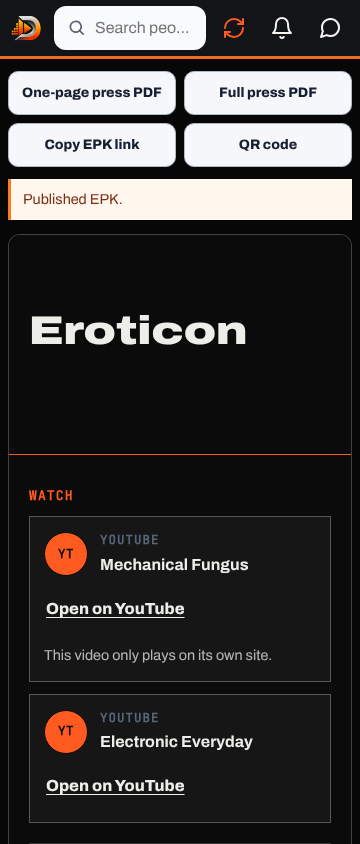
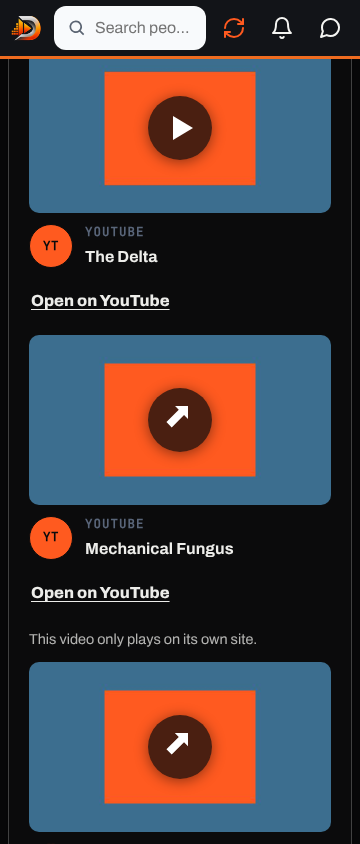
EPK Watch shows each video's picture and leaves out removed ones
Owner (screenshot of Watch cards that only said "Load YouTube player"):
"Links from YouTube need the videos if video unavailable then dont put it
in the epk".

- YouTube and Vimeo links show the video's own picture in a 16:9 frame with
  a play button; a tap plays it in place (autoplay only for the player that
  tap starts, nothing loads before it). One that won't play on other sites
  keeps its picture and opens on its own site.
- A removed or private video never shows: YouTube's 120x90 stand-in picture
  or Vimeo's oEmbed 404 removes the card, so do player errors 100/2 after a
  tap; an empty Watch section goes too. The builder's video lines use the
  same check.
- epk-video-check.cjs covers the venue view (removed YouTube and Vimeo
  videos, centre taps, 320-430px); epk-looks and epk-production updated.

Claude-Session: https://claude.ai/code/session_01B3uuzLULLY8hw3RkkU8VCN

diff --git a/assets/epk-video-check.js b/assets/epk-video-check.js
@@ -15,17 +15,59 @@
   const listeners = new Set();
   let box = null;
 
-  function embedSource(url, { api: jsApi = false } = {}) {
+  function ids(url) {
     try {
       const u = new URL(url), host = u.hostname.replace(/^www\.|^m\./, "").toLowerCase();
-      let id = "";
-      if (host === "youtube.com" || host === "music.youtube.com") id = u.searchParams.get("v") || (u.pathname.match(/^\/(?:shorts|embed|live)\/([\w-]{6,20})/) || [])[1] || "";
-      else if (host === "youtu.be") id = u.pathname.split("/").filter(Boolean)[0] || "";
-      if (/^[\w-]{6,20}$/.test(id)) return `https://www.youtube-nocookie.com/embed/${id}${jsApi ? `?enablejsapi=1&playsinline=1&origin=${encodeURIComponent(location.origin)}` : ""}`;
-      if (host === "vimeo.com") { const vid = u.pathname.split("/").filter(Boolean).find(part => /^\d+$/.test(part)); if (vid) return `https://player.vimeo.com/video/${vid}`; }
+      let youtube = "";
+      if (host === "youtube.com" || host === "music.youtube.com") youtube = u.searchParams.get("v") || (u.pathname.match(/^\/(?:shorts|embed|live)\/([\w-]{6,20})/) || [])[1] || "";
+      else if (host === "youtu.be") youtube = u.pathname.split("/").filter(Boolean)[0] || "";
+      if (/^[\w-]{6,20}$/.test(youtube)) return { youtube };
+      if (host === "vimeo.com") { const vimeo = u.pathname.split("/").filter(Boolean).find(part => /^\d+$/.test(part)); if (vimeo) return { vimeo }; }
     } catch { /* not a URL */ }
+    return {};
+  }
+  // play: the visitor tapped the video's picture, so the player starts at once (autoplay only after that tap).
+  function embedSource(url, { api: jsApi = false, play = false } = {}) {
+    const { youtube, vimeo } = ids(url);
+    if (youtube) {
+      const query = [jsApi && `enablejsapi=1&playsinline=1&origin=${encodeURIComponent(location.origin)}`, play && "autoplay=1"].filter(Boolean).join("&");
+      return `https://www.youtube-nocookie.com/embed/${youtube}${query ? `?${query}` : ""}`;
+    }
+    if (vimeo) return `https://player.vimeo.com/video/${vimeo}${play ? "?autoplay=1" : ""}`;
     return "";
   }
+
+  // The video's own picture (owner 2026-11-23, a screenshot of Watch cards that only said "Load YouTube player": "Links
+  // from YouTube need the videos if video unavailable then dont put it in the epk"). YouTube keeps every video's picture
+  // at i.ytimg.com and answers a removed, private or mistyped video with a 120x90 grey stand-in; Vimeo's oEmbed gives the
+  // picture, or 404 for a removed or private video. → { state: "ok" | "gone" | "link" | "unknown", src }
+  const posters = new Map();
+  function poster(url) {
+    if (posters.has(url)) return posters.get(url);
+    const { youtube, vimeo } = ids(url);
+    let job = Promise.resolve({ state: "skip", src: "" });
+    if (youtube) job = new Promise(resolve => {
+      const image = new Image(), src = `https://i.ytimg.com/vi/${youtube}/hqdefault.jpg`;
+      const done = value => { clearTimeout(timer); image.onload = image.onerror = null; resolve(value); };
+      const timer = setTimeout(() => done({ state: "unknown", src: "" }), 8000);
+      image.onload = () => done(image.naturalWidth > 120 ? { state: "ok", src } : { state: "gone", src: "" });
+      image.onerror = () => done({ state: "unknown", src: "" });
+      image.referrerPolicy = "no-referrer";
+      image.src = src;
+    });
+    else if (vimeo) job = fetch(`https://vimeo.com/api/oembed.json?url=${encodeURIComponent(`https://vimeo.com/${vimeo}`)}&width=640`, { credentials: "omit", referrerPolicy: "no-referrer" })
+      .then(async response => {
+        if (response.status === 404) return { state: "gone", src: "" };
+        if (response.status === 403) return { state: "link", src: "" }; // the owner keeps it off other sites
+        if (!response.ok) return { state: "unknown", src: "" };
+        const data = await response.json().catch(() => ({}));
+        return { state: "ok", src: /^https:\/\/i\.vimeocdn\.com\/[^\s"'()\\]+$/.test(data.thumbnail_url || "") ? data.thumbnail_url : "" };
+      })
+      .catch(() => ({ state: "unknown", src: "" }));
+    posters.set(url, job);
+    return job;
+  }
+
   const isYouTube = source => source.startsWith("https://www.youtube-nocookie.com/embed/");
 
   // The YouTube player reports errors over postMessage once a page says it is listening. Error codes: 2 bad id,
@@ -62,14 +104,15 @@
   async function check(url) {
     const source = embedSource(url, { api: true });
     if (!source) return { state: "skip" };
-    let server = null;
-    try {
-      const response = await fetch(`${api}/link-preview?url=${encodeURIComponent(url)}`, { credentials: "include", cache: "no-store" });
-      if (response.ok) server = (await response.json()).preview || null;
-    } catch { /* offline: the browser test still runs */ }
+    const asked = fetch(`${api}/link-preview?url=${encodeURIComponent(url)}`, { credentials: "include", cache: "no-store" })
+      .then(async response => response.ok ? (await response.json()).preview || null : null)
+      .catch(() => null); // offline: the picture and the browser test still run
+    const [server, picture] = await Promise.all([asked, poster(url)]);
     const title = server?.title || "";
+    if (picture.state === "gone") return { state: "gone", title };
+    if (picture.state === "link") return { state: "link", title };
     if (server?.playable === false) return { state: server.reason === "embed_off" ? "link" : "gone", title };
-    if (!isYouTube(source)) return { state: server?.playable === true ? "ok" : "unknown", title };
+    if (!isYouTube(source)) return { state: server?.playable === true || picture.state === "ok" ? "ok" : "unknown", title };
     const probe = await testInBrowser(source);
     if (probe.error) return { state: [100, 2].includes(probe.error) ? "gone" : "link", title };
     if (probe.ok || server?.playable === true) return { state: "ok", title };
@@ -139,6 +182,6 @@
     setInterval(() => { if (area.value !== last && document.activeElement !== area) { last = area.value; scan(read()); } }, 1500);
   }
 
-  window.danzstakEpkVideoCheck = Object.freeze({ embedSource, watchPlayer, mark, seed, scan, onChange: fn => listeners.add(fn), state: url => results.get(url)?.state || "" });
+  window.danzstakEpkVideoCheck = Object.freeze({ embedSource, poster, watchPlayer, mark, seed, scan, onChange: fn => listeners.add(fn), state: url => results.get(url)?.state || "" });
   if (document.readyState === "loading") document.addEventListener("DOMContentLoaded", start, { once: true }); else start();
 })();

diff --git a/assets/epk.js b/assets/epk.js
@@ -129,27 +129,75 @@
     document.querySelectorAll(".epk-media-card[data-player-active='true']").forEach(card => {
       if (card === except) return;
       card.querySelector("iframe")?.remove();
-      const button = card.querySelector(".epk-player-load");
-      if (button) button.hidden = false;
+      card.querySelectorAll(".epk-player-load, .epk-video-face").forEach(node => { node.hidden = false; });
       delete card.dataset.playerActive;
     });
+  }
+  const say = value => window.danzstakTranslate?.(value) || value;
+  // A removed or private video never shows in the EPK, and a Watch section with nothing left goes too.
+  function dropCard(card) {
+    const wrap = card.parentElement;
+    card.remove();
+    if (wrap && !wrap.querySelector(".epk-media-card")) wrap.closest("section")?.remove();
+  }
+  // A video that won't play inside other sites: its picture opens it on its own site instead.
+  function toLink(card, item, face) {
+    if (!face || face.tagName === "A") return;
+    const link = document.createElement("a");
+    link.className = "epk-video-face";
+    link.href = item.url;
+    link.target = "_blank";
+    link.rel = "noopener noreferrer";
+    link.setAttribute("aria-label", `${say(`Open on ${providerName(item.url)}`)}: ${item.label}`);
+    link.append(...face.childNodes);
+    face.replaceWith(link);
+    card.dataset.embed = "off";
+    if (!card.querySelector(".epk-player-note")) card.querySelector(".epk-media-actions")?.append(text("p", "This video only plays on its own site.", "epk-player-note"));
   }
   function activateProvider(card, item, source, button) {
     stopProviderEmbeds(card);
     card.querySelector("iframe")?.remove();
     const frame = document.createElement("iframe");
-    const check = window.danzstakEpkVideoCheck;
-    frame.src = check?.embedSource(item.url, { api:true }) || source;
+    const check = window.danzstakEpkVideoCheck, video = button.classList.contains("epk-video-face");
+    // A tap on the video's picture plays it there and then (autoplay only after that tap).
+    frame.src = check?.embedSource(item.url, { api:true, play:video }) || source;
     frame.title = `${item.label} player`;
     frame.loading = "eager";
-    frame.allow = "encrypted-media; fullscreen; picture-in-picture";
+    frame.allow = `${video ? "autoplay; " : ""}encrypted-media; fullscreen; picture-in-picture`;
     frame.referrerPolicy = "strict-origin-when-cross-origin";
     frame.allowFullscreen = true;
     card.dataset.playerActive = "true";
     button.hidden = true;
-    card.append(frame);
-    // YouTube's "Video unavailable" never shows to a venue: on a player error the card keeps only the link.
-    const stop = check?.watchPlayer?.(frame, { onError: () => { stop?.(); frame.remove(); button.remove(); delete card.dataset.playerActive; card.dataset.embed = "off"; card.querySelector(".epk-media-actions")?.append(text("p", "This video only plays on its own site.", "epk-player-note")); } });
+    if (video) button.before(frame); else card.append(frame); // a video's player takes its picture's place
+    // YouTube's "Video unavailable" never shows to a venue: a removed or private video leaves the EPK, one that won't
+    // play inside other sites opens on its own site.
+    const stop = check?.watchPlayer?.(frame, { onError: code => {
+      stop?.(); frame.remove(); delete card.dataset.playerActive;
+      if (!video) { button.remove(); card.dataset.embed = "off"; card.querySelector(".epk-media-actions")?.append(text("p", "This video only plays on its own site.", "epk-player-note")); return; }
+      button.hidden = false;
+      if ([2, 100].includes(code)) dropCard(card); else toLink(card, item, button);
+    } });
+  }
+  // YouTube and Vimeo show the video's own picture with a play button; a tap plays it in place.
+  function videoFace(card, item, source) {
+    const face = document.createElement("button"), picture = document.createElement("img"), play = document.createElement("span");
+    face.type = "button";
+    face.className = "epk-video-face";
+    face.setAttribute("aria-label", `${say("Play video")}: ${item.label}`);
+    picture.alt = "";
+    picture.decoding = "async";
+    picture.referrerPolicy = "no-referrer";
+    picture.hidden = true;
+    play.className = "epk-video-play";
+    play.setAttribute("aria-hidden", "true");
+    face.append(picture, play);
+    face.addEventListener("click", () => activateProvider(card, item, source, face));
+    window.danzstakEpkVideoCheck?.poster?.(item.url).then(result => {
+      if (result.state === "gone") return dropCard(card);
+      if (result.src) { picture.src = result.src; picture.hidden = false; }
+      if (result.state === "link") toLink(card, item, card.querySelector(".epk-video-face"));
+    });
+    return face;
   }
   function mediaLinks(items) {
     if (!items?.length) return null;
@@ -158,7 +206,8 @@
     items.forEach(item => {
       if (!/^https:\/\//i.test(item.url || "")) return;
       const card = document.createElement("article"), mark = text("span", "", "epk-provider-mark"), copy = document.createElement("div"), actions = document.createElement("div"), source = providerSource(item), provider = providerName(item.url), link = text("a", `Open on ${provider}`);
-      card.className = "epk-media-card";
+      const video = Boolean(source && window.danzstakEpkVideoCheck?.embedSource(item.url));
+      card.className = video ? "epk-media-card epk-video-card" : "epk-media-card";
       card.dataset.provider = provider.toLowerCase().replace(/[^a-z0-9]+/g, "-");
       mark.textContent = providerMark(provider);
       mark.setAttribute("aria-hidden", "true");
@@ -169,6 +218,14 @@
       link.target = "_blank";
       link.rel = "noopener noreferrer";
       if (item.embed === false) card.dataset.embed = "off";
+      if (video) {
+        const face = videoFace(card, item, source);
+        actions.append(link);
+        card.append(face, mark, copy, actions);
+        if (item.embed === false) toLink(card, item, face);
+        wrap.append(card);
+        return;
+      }
       if (source && item.embed !== false) {
         const load = text("button", `Load ${provider} player`, "epk-player-load");
         load.type = "button";

diff --git a/epk.html b/epk.html
@@ -4,15 +4,15 @@
   <meta charset="UTF-8">
   <meta name="viewport" content="width=device-width,initial-scale=1">
   <meta name="referrer" content="no-referrer">
-  <meta http-equiv="Content-Security-Policy" content="default-src 'self'; connect-src 'self' https://api.danzstak.com https://danzstak-call-signaling-mediabucket-abx9qfpinhje.s3.us-west-1.amazonaws.com https://dk7kawr758jtd.cloudfront.net; style-src 'self'; img-src 'self' https: data: blob:; frame-src https://www.youtube-nocookie.com https://player.vimeo.com https://open.spotify.com; object-src 'none'; base-uri 'none'; form-action 'self'; frame-ancestors 'none'; upgrade-insecure-requests">
+  <meta http-equiv="Content-Security-Policy" content="default-src 'self'; connect-src 'self' https://api.danzstak.com https://vimeo.com https://danzstak-call-signaling-mediabucket-abx9qfpinhje.s3.us-west-1.amazonaws.com https://dk7kawr758jtd.cloudfront.net; style-src 'self'; img-src 'self' https: data: blob:; frame-src https://www.youtube-nocookie.com https://player.vimeo.com https://open.spotify.com; object-src 'none'; base-uri 'none'; form-action 'self'; frame-ancestors 'none'; upgrade-insecure-requests">
   <title>EPK Builder | DanzStak</title>
   <meta name="description" content="Build and publish a clear electronic press kit for venues, promoters, record stores, and press.">
   <link rel="icon" href="assets/favicon-32.png?v=3" sizes="32x32" type="image/png">
-  <link rel="stylesheet" href="assets/epk.css?v=12">
+  <link rel="stylesheet" href="assets/epk.css?v=13">
   <link rel="stylesheet" href="assets/epk-looks.css?v=1">
   <link rel="stylesheet" href="assets/epk-production.css?v=1">
   <link rel="stylesheet" href="assets/epk-reviews.css?v=1">
-  <link rel="stylesheet" href="assets/epk-media.css?v=9">
+  <link rel="stylesheet" href="assets/epk-media.css?v=10">
   <link rel="stylesheet" href="assets/responsive-media.css?v=9">
   <link rel="stylesheet" href="assets/accessibility.css?v=364">
   <link rel="stylesheet" href="assets/app-feedback.css?v=3">
@@ -22,7 +22,7 @@
 <script src="assets/session-guard.js?v=1"></script>
 <script src="assets/languages.js?v=231" defer></script>
 <script src="assets/brand-language-aliases.js?v=7" defer></script>
-<script src="assets/i18n-music.js?v=21" defer></script>
+<script src="assets/i18n-music.js?v=22" defer></script>
 <script src="assets/i18n-people.js?v=31" defer></script>
 <script src="assets/i18n-sync.js?v=40" defer></script>
 <script src="assets/i18n.js?v=420" defer></script>
@@ -101,8 +101,8 @@
   <script src="assets/epk-reviews.js?v=3" defer></script>
   <script src="assets/share-card-tools.js?v=1" defer></script>
   <script src="assets/epk-share-card.js?v=1" defer></script>
-  <script src="assets/epk-video-check.js?v=1" defer></script>
-  <script src="assets/epk.js?v=27" defer></script>
+  <script src="assets/epk-video-check.js?v=2" defer></script>
+  <script src="assets/epk.js?v=28" defer></script>
   <script src="assets/epk-ai.js?v=3" defer></script>
   <script src="assets/responsive-media.js?v=3" defer></script>
 <script src="assets/people-search.js?v=424" defer></script>

diff --git a/assets/epk-media.css b/assets/epk-media.css
@@ -39,6 +39,22 @@
 .epk-player-load:hover,
 .epk-player-load:focus-visible { background: color-mix(in srgb,currentColor 12%,transparent); }
 .epk-embeds iframe { display: block; grid-column: 1 / -1; width: 100%; aspect-ratio: 16/9; border: 0; border-radius: 10px; margin: 2px 0 0; background: #10141b; }
+/* Watch (owner 2026-11-23: "Links from YouTube need the videos"): each video shows its own picture, edge to edge, with
+   the play button over it; the provider mark, title and "Open on …" sit under it like a video list. */
+.epk-media-card.epk-video-card { padding: 0; border: 0; background: none; }
+.epk-preview[data-look] .epk-media-card.epk-video-card { border: 0; background: none; }
+.epk-video-face { position: relative; display: block; grid-column: 1 / -1; width: 100%; aspect-ratio: 16/9; padding: 0; border: 0; border-radius: 10px; overflow: hidden; background: #10141b; color: #fff; cursor: pointer; }
+.epk-video-face[hidden] { display: none; }
+.epk-video-face img { display: block; width: 100%; height: 100%; object-fit: cover; }
+.epk-video-face img[hidden] { display: none; }
+.epk-video-play { position: absolute; top: 50%; left: 50%; width: 64px; height: 64px; margin: -32px 0 0 -32px; border-radius: 50%; background: rgba(11,11,12,.74); box-shadow: 0 2px 14px rgba(0,0,0,.45); transition: background-color .15s ease, transform .15s ease; }
+.epk-video-play::after { content: ""; position: absolute; top: 20px; left: 25px; border-style: solid; border-width: 12px 0 12px 20px; border-color: transparent transparent transparent #fff; }
+.epk-video-face[href] .epk-video-play::after { top: 18px; left: 18px; width: 22px; height: 22px; border: 0; background: #fff; clip-path: polygon(40% 0, 100% 0, 100% 60%, 82% 42%, 26% 98%, 2% 74%, 58% 18%); }
+.epk-video-face:hover .epk-video-play,
+.epk-video-face:focus-visible .epk-video-play { background: var(--epk-accent,#ff5a1f); }
+.epk-video-face:active .epk-video-play { transform: scale(.94); }
+.epk-video-face:focus-visible { outline: 3px solid var(--epk-accent,#ff5a1f); outline-offset: 2px; }
+@media (prefers-reduced-motion: reduce) { .epk-video-play { transition: none; } .epk-video-face:active .epk-video-play { transform: none; } }
 .epk-provider { margin: 0; color: #596579; font-size: .78rem; font-weight: 800; text-transform: uppercase; letter-spacing: .06em; }
 .epk-contact { display: grid; gap: 8px; }
 .epk-contact p { margin: 0; font-weight: 800; }

diff --git a/booking-reply.html b/booking-reply.html
@@ -1,7 +1,7 @@
 <!DOCTYPE html>
 <html lang="en"><head><meta charset="UTF-8"><meta name="viewport" content="width=device-width,initial-scale=1"><meta name="theme-color" content="#121418"><meta name="robots" content="noindex,nofollow,noarchive"><meta name="referrer" content="no-referrer"><meta http-equiv="Content-Security-Policy" content="default-src 'self'; connect-src 'self' https://api.danzstak.com; script-src 'self'; style-src 'self'; img-src 'self' data:; object-src 'none'; base-uri 'none'; form-action 'self'; frame-ancestors 'none'; upgrade-insecure-requests"><link rel="icon" href="assets/favicon-32.png?v=3"><link rel="stylesheet" href="assets/booking-reply.css?v=2"><title>Reply to booking pitch | DanzStak</title><script src="assets/languages.js?v=231" defer></script>
 <script src="assets/brand-language-aliases.js?v=7" defer></script>
-<script src="assets/i18n-music.js?v=21" defer></script>
+<script src="assets/i18n-music.js?v=22" defer></script>
 <script src="assets/i18n.js?v=420" defer></script>
 </head>
 <body><main><header><img src="assets/danzstak-d-icon.png" alt=""><div><span>DANZSTAK TOUR MANAGER</span><h1>Reply to this booking pitch</h1></div></header><p>Your reply goes only to the artist who contacted you. You do not need a DanzStak account.</p><form id="replyForm"><label>Response<select id="replyAction"><option value="reply">Reply</option><option value="interested">Interested</option><option value="offer_date">Offer a date</option><option value="confirm_date">Confirm a date</option><option value="pass">Pass</option></select></label><label id="dateLabel" hidden><span id="dateLabelText">Proposed date</span><input id="proposedDate" type="date"></label><label>Message<textarea id="replyContent" maxlength="4000" rows="7" required placeholder="Write your reply to the artist"></textarea></label><button type="submit">Send reply to artist</button></form><p id="replyStatus" role="status" aria-live="polite"></p><p class="privacy">DanzStak stores this reply with the artist's private booking conversation. Do not include private residential addresses or sensitive personal information.</p></main><script src="assets/booking-reply.js?v=2"></script></body></html>

diff --git a/assets/i18n-music.js b/assets/i18n-music.js
@@ -10,6 +10,9 @@
 "Not added: this video is removed or private. Check the link.": "Non aggiunto: questo video è stato rimosso o è privato. Controlla il link.",
 "Couldn't check it right now. It shows as a player; if it won't play, venues get the link.": "Non è stato possibile controllarlo ora. Appare come player; se non parte, i locali ricevono il link.",
 "This video only plays on its own site.": "Questo video si riproduce solo sul suo sito.",
+"Play video": "Riproduci il video",
+"Open on YouTube": "Apri su YouTube",
+"Open on Vimeo": "Apri su Vimeo",
 "Music HQ tools": "Strumenti Music HQ",
 "Record shops": "Negozi di dischi",
 "Booking Agent": "Booking Agent",
@@ -1089,6 +1092,9 @@
 "Not added: this video is removed or private. Check the link.": "Pas ajoutée : cette vidéo est supprimée ou privée. Vérifie le lien.",
 "Couldn't check it right now. It shows as a player; if it won't play, venues get the link.": "Impossible de vérifier pour l'instant. Elle s'affiche comme lecteur ; si elle ne se lit pas, les salles reçoivent le lien.",
 "This video only plays on its own site.": "Cette vidéo ne se lit que sur son propre site.",
+"Play video": "Lire la vidéo",
+"Open on YouTube": "Ouvrir sur YouTube",
+"Open on Vimeo": "Ouvrir sur Vimeo",
 "Music HQ tools": "Outils Music HQ",
 "Record shops": "Disquaires",
 "Booking Agent": "Booking Agent",
@@ -2163,6 +2169,9 @@
 "Not added: this video is removed or private. Check the link.": "No añadido: este vídeo se eliminó o es privado. Revisa el enlace.",
 "Couldn't check it right now. It shows as a player; if it won't play, venues get the link.": "No se pudo comprobar ahora. Aparece como reproductor; si no se reproduce, las salas reciben el enlace.",
 "This video only plays on its own site.": "Este vídeo solo se reproduce en su propio sitio.",
+"Play video": "Reproducir el vídeo",
+"Open on YouTube": "Abrir en YouTube",
+"Open on Vimeo": "Abrir en Vimeo",
 "Music HQ tools": "Herramientas de Music HQ",
 "Record shops": "Tiendas de discos",
 "Booking Agent": "Booking Agent",

diff --git a/assets/epk.css b/assets/epk.css
@@ -82,6 +82,7 @@
   body[data-epk-print="one-page"] .epk-embeds{display:grid;grid-template-columns:repeat(2,minmax(0,1fr));gap:5px}
   body[data-epk-print="one-page"] .epk-embeds>*{padding:6px!important;break-inside:avoid}
   body[data-epk-print="one-page"] .epk-embeds iframe{display:none!important}
+  body[data-epk-print="one-page"] .epk-video-face{display:none!important}
   body[data-epk-print="one-page"] .epk-embeds p,body[data-epk-print="one-page"] .epk-embeds h3{margin:0 0 2px!important;font-size:8pt!important}
   body[data-epk-print="one-page"] .epk-embeds>:nth-child(n+3),body[data-epk-print="one-page"] li:nth-child(n+4),body[data-epk-print="one-page"] blockquote:nth-child(n+3){display:none!important}
   body[data-epk-print="one-page"] blockquote{margin:3px 0;padding-left:7px;font-size:8pt;line-height:1.2}

diff --git a/service-worker.js b/service-worker.js
@@ -1,6 +1,6 @@
 "use strict";
 
-const CACHE = "danzstak-shell-v1036";
+const CACHE = "danzstak-shell-v1037";
 const SHELL = [
   "/assets/offline.js", "/assets/identity-media.js", "/assets/time-label.js", "/assets/page-missing.js", "/assets/scramble-by-seller.js", "/assets/user-content-links.js", "/assets/user-content-links.css", "/assets/invite-sharing.js", "/assets/invite-sharing.css",
   "/assets/fonts/archivo.woff2", "/assets/fonts/jetbrains-mono.woff2", "/assets/fonts/anton.woff2", "/assets/fonts/special-elite.woff2", "/assets/fonts/work-sans.woff2", "/assets/fonts/pirata-one.woff2", "/assets/fonts/oswald.woff2", "/assets/fonts/source-serif-4.woff2", "/assets/fonts/syne.woff2", "/assets/fonts/dm-sans.woff2",

diff --git a/feed.html b/feed.html
@@ -353,7 +353,7 @@ a.composer-avatar { text-decoration: none; } /* audit A9: the composer photo ope
 <script src="assets/i18n-events.js?v=2" defer></script>
 <script src="assets/i18n-people.js?v=31" defer></script>
 <script src="assets/time-label.js?v=1"></script>
-<script src="assets/i18n-music.js?v=21" defer></script>
+<script src="assets/i18n-music.js?v=22" defer></script>
 <script src="assets/i18n.js?v=420" defer></script>
 <script src="assets/mobile-keyboard.js?v=232" defer></script>
 <script src="assets/identity-media.js?v=2"></script>

diff --git a/shop.html b/shop.html
@@ -14,7 +14,7 @@
 <link rel="stylesheet" href="assets/mobile-design-system.css?v=22">
 <link rel="stylesheet" href="assets/shop-public.css?v=1">
 <script src="assets/languages.js?v=231" defer></script>
-<script src="assets/i18n-music.js?v=21" defer></script>
+<script src="assets/i18n-music.js?v=22" defer></script>
 <script src="assets/i18n.js?v=420" defer></script>
 </head>
 <!-- Owner 2026-11-22: a shared profile link opened by someone who isn't signed in shows that member's shop and nothing

diff --git a/booking.html b/booking.html
@@ -34,7 +34,7 @@
   <script src="assets/session-guard.js?v=1"></script>
   <script src="assets/languages.js?v=231" defer></script>
 <script src="assets/brand-language-aliases.js?v=7" defer></script>
-<script src="assets/i18n-music.js?v=21" defer></script>
+<script src="assets/i18n-music.js?v=22" defer></script>
 <script src="assets/i18n-people.js?v=31" defer></script>
 <script src="assets/i18n-sync.js?v=40" defer></script>
 <script src="assets/i18n.js?v=420" defer></script>

diff --git a/bazaar.html b/bazaar.html
@@ -16,7 +16,7 @@
 <script src="assets/session-guard.js?v=1"></script>
 <script src="assets/languages.js?v=231" defer></script>
 <script src="assets/brand-language-aliases.js?v=7" defer></script>
-<script src="assets/i18n-music.js?v=21" defer></script>
+<script src="assets/i18n-music.js?v=22" defer></script>
 <script src="assets/i18n-people.js?v=31" defer></script>
 <script src="assets/i18n-sync.js?v=40" defer></script>
 <script src="assets/i18n.js?v=420" defer></script>
